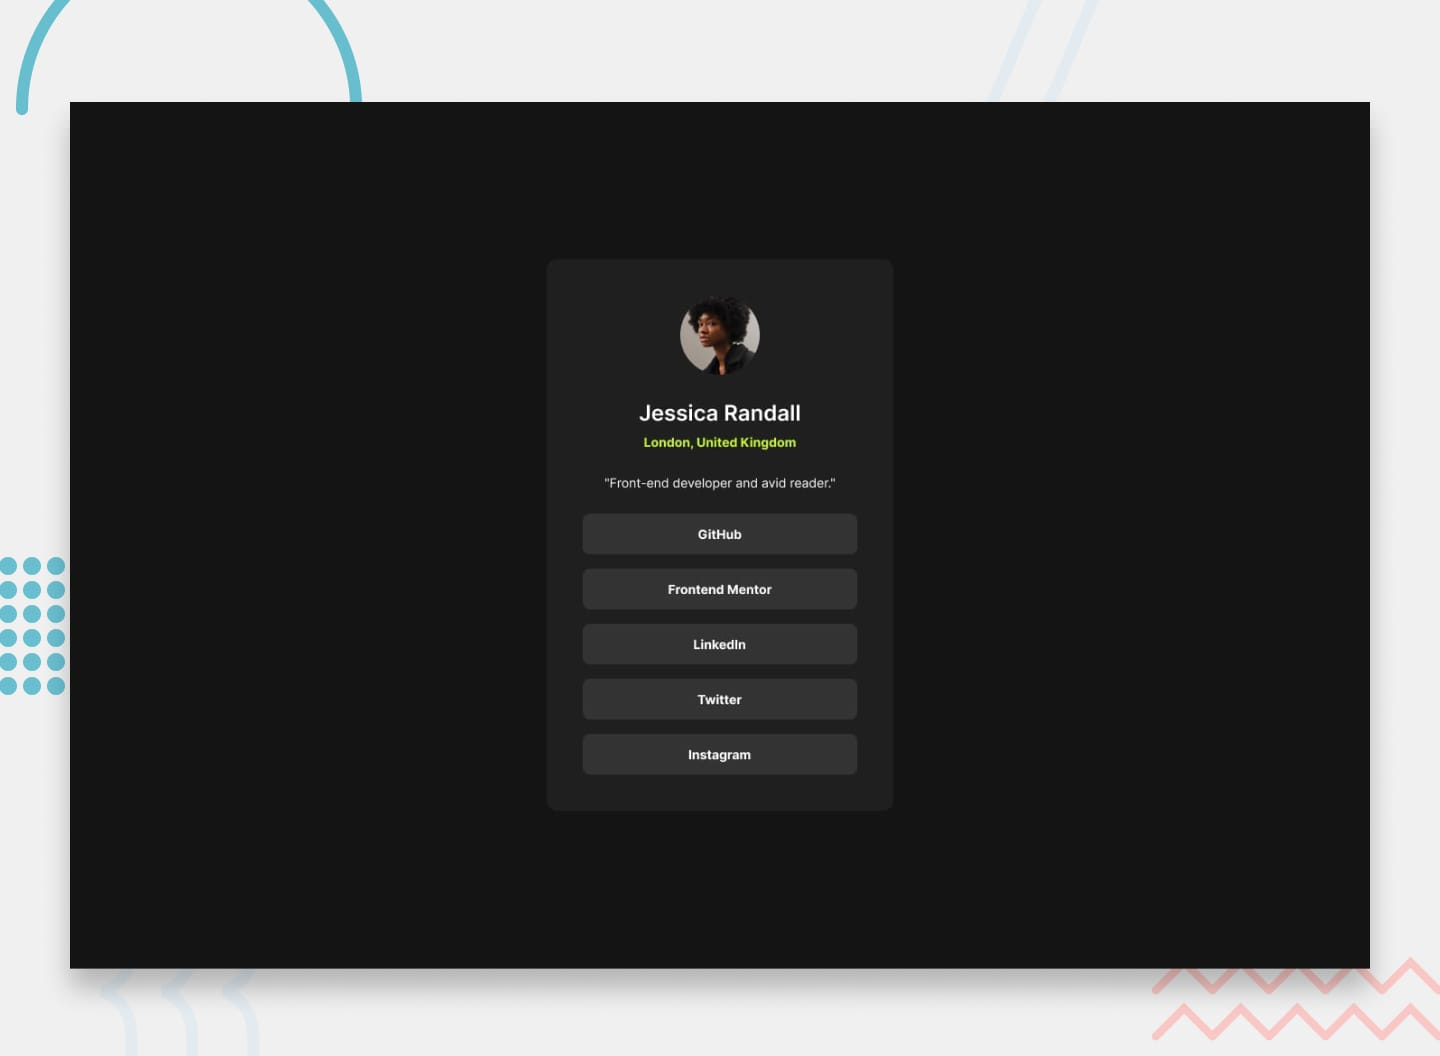
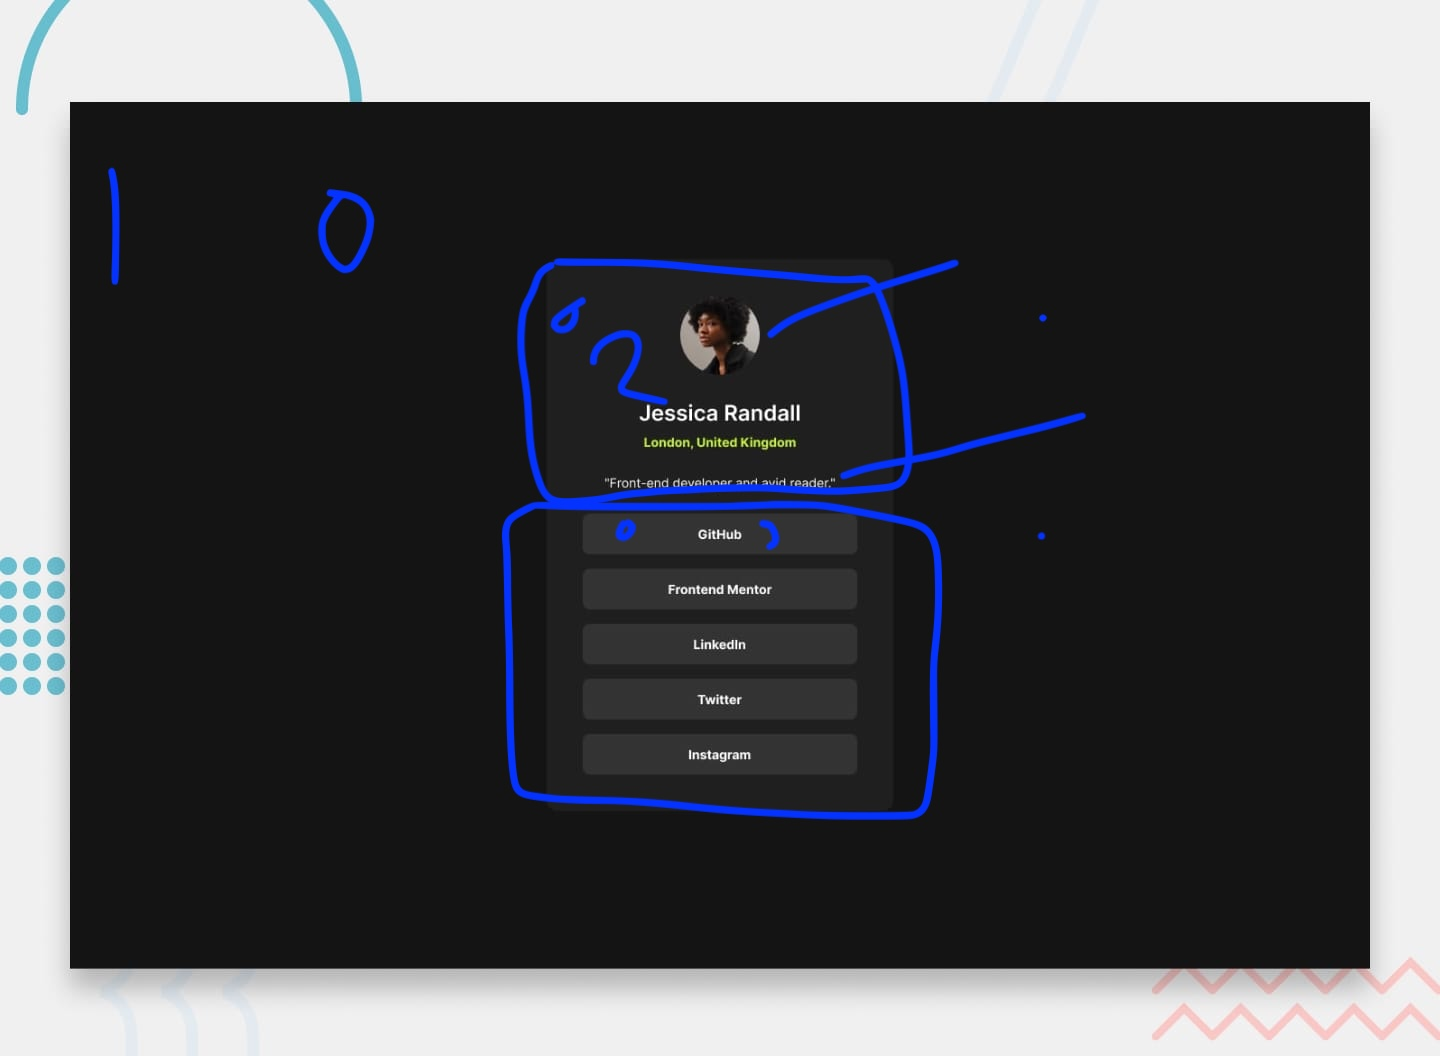
finish

diff --git a/index.html b/index.html
@@ -1,34 +1,66 @@
 <!DOCTYPE html>
 <html lang="en">
+
 <head>
   <meta charset="UTF-8">
-  <meta name="viewport" content="width=device-width, initial-scale=1.0"> <!-- displays site properly based on user's device -->
+  <meta name="viewport" content="width=device-width, initial-scale=1.0">
+  <!-- displays site properly based on user's device -->
 
   <link rel="icon" type="image/png" sizes="32x32" href="./assets/images/favicon-32x32.png">
-  
+
   <title>Frontend Mentor | Social links profile</title>
 
   <!-- Feel free to remove these styles or customise in your own stylesheet 👍 -->
+  <link rel="stylesheet" href="style.css">
   <style>
-    .attribution { font-size: 11px; text-align: center; }
-    .attribution a { color: hsl(228, 45%, 44%); }
+    .attribution {
+      font-size: 11px;
+      text-align: center;
+    }
+
+    .attribution a {
+      color: hsl(228, 45%, 44%);
+    }
   </style>
 </head>
+
 <body>
 
-  Jessica Randall
-  London, United Kingdom
-  "Front-end developer and avid reader."
+  <div class="container">
+    <div class="profile">
+      <img src="assets/images/avatar-jessica.jpeg" class="profile-picture">
+      <p class="profile-name">Jessica Randall</p>
+      <p class="profile-location">London, United Kingdom</p>
+      <p class="profile-role">"Front-end developer and avid reader."</p>
+    
+      <div>
+        <ul>
+          <li>
+            <a><button>GitHub</button></a>
+          </li>
+          <li>
+            <a>Frontend Mentor</a>
+          </li>
+          <li>
+            <a>LinkedIn</a>
+          </li>
+          <li>
+            <a>Twitter</a>
+          </li>
+          <li>
+            <a>Instagram</a>
+          </li>
+        </ul>
+      </div>
+    </div>
 
-  GitHub
-  Frontend Mentor
-  LinkedIn
-  Twitter
-  Instagram
-  
-  <div class="attribution">
-    Challenge by <a href="https://www.frontendmentor.io?ref=challenge" target="_blank">Frontend Mentor</a>. 
-    Coded by <a href="#">Your Name Here</a>.
+
   </div>
+
+  <!-- <div class="attribution">
+    Challenge by <a href="https://www.frontendmentor.io?ref=challenge" target="_blank">Frontend Mentor</a>.
+    Coded by <a href="#">Your Name Here</a>.
+  </div> -->
 </body>
+
 </html>

diff --git a/style.css b/style.css
@@ -1,0 +1,66 @@
+:root {
+  --grey-700: hsl(0, 0%, 20%);
+  --grey-800: hsl(0, 0%, 12%);
+  --grey-900: hsl(0, 0%, 8%);
+  --white: hsl(0, 0%, 100%);
+  --green: hsl(75, 94%, 57%);
+}
+
+body {
+  background-color: var(--grey-900);
+}
+
+.container {
+  display: flex;
+  justify-content: center;
+  align-items: center;
+  height: 100vh;
+  flex-direction: column;
+}
+
+.profile {
+  color: white;
+  padding: 20px 40px;
+  background-color: var(--grey-800);
+  border-radius: 15px;
+  box-shadow: 0 4px 6px rgb(0, 0, 0);
+  text-align: center;
+  font-size: 18px;
+  font-family: Arial, sans-serif;
+}
+
+.profile-picture {
+  width: 100px; 
+  height: 100px; 
+  border-radius: 50%; 
+  object-fit: cover; 
+}
+
+.profile-name {
+  font-weight: 600;
+  font-size: 22px;
+}
+
+.profile-location {
+  color: var(--green);
+  font-weight: 700;
+  font-size: 14px;
+}
+
+.profile-role {
+  font-size: 14px;
+}
+
+.black-box-button {
+  display: inline-block;
+  background-color: black;
+  color: white;
+  text-align: center;
+  padding: 15px 40px;
+  text-decoration: none;
+  font-size: 16px;
+  font-weight: bold;
+  border: none;
+  border-radius: 5px;
+  cursor: pointer;
+}
